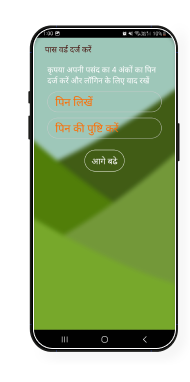
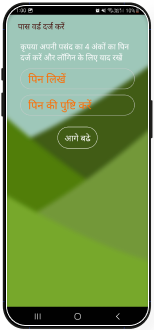
hero section updated

diff --git a/src/component/success-story/success.js b/src/component/success-story/success.js
@@ -1,11 +1,14 @@
 import React from 'react'
 import './success.css'
+import success from "../../assets/success.png"
 
 const Success = () => {
   return (
     <div className='success-main'>
-        <h1 className='success-heading'> Success <br /><span>Stories</span>   </h1>
-        <p className='success-descrip'>Lorem ipsum dolor sit amet, consectetur adipiscing elit, sed do eiusmod tempor incididunt ut labore et dolore magna aliqua. Ut enim ad minim veniam, quis nostrud exercitation ullamco laboris nisi ut aliquip ex ea commodo consequat. Duis aute irure dolor in reprehenderit in voluptate velit esse cillum dolore eu fugiat nulla pariatur. Excepteur sint occaecat cupidatat non proident, sunt in culpa qui officia deserunt mollit anim id est laborum.</p>
+      <div className='success-info'><h1 className='success-heading'> Success <br /><span>Stories</span>   </h1>
+      <p className='success-descrip'>Lorem ipsum dolor sit amet, consectetur adipiscing elit, sed do eiusmod tempor incididunt ut labore et dolore magna aliqua. Ut enim ad minim veniam, quis nostrud exercitation ullamco laboris nisi ut aliquip ex ea commodo consequat. Duis aute irure dolor in reprehenderit in voluptate velit esse cillum dolore eu fugiat nulla pariatur. Excepteur sint occaecat cupidatat non proident, sunt in culpa qui officia deserunt mollit anim id est laborum.</p></div>
+        
+      <img src={success} alt="" />
     </div>
   )
 }

diff --git a/src/component/hero/hero.css b/src/component/hero/hero.css
@@ -21,6 +21,11 @@
     flex-direction: column;
     align-items: center; 
     justify-content: center;
+    background-image: linear-gradient(
+    to bottom right,
+    var(--secondary),
+    var(--white)
+  );
 }
 .hero-btn {
     /* background-color: #7E9949; */
@@ -32,44 +37,33 @@
     font-size: 15px;
     border: none;
     border-radius: 10px;
-}
-.hero-img {
-    display: flex;
-    margin-top: 40px;
-    width: 100%;
-}
-.hero-img img{
-    object-fit: cover;
-    width: 350px;
-    height: 350px;
-}
-
-.hero-img {
+  }
+  .hero-img {
     display: flex;
     margin-top: 40px;
     align-items: center;
     justify-content: center;
     margin: 40px 20px 0 20px;
     gap: 10px;
-}
-.hero-img img {
+  }
+  .hero-img img {
     object-fit: cover;
     /* width: 350px; */
     /* height: 350px; */
-}
-.hero-img-1 {
+  }
+  .hero-img-1 {
     width: 180px;
     height: 350px;
-}
-.hero-img-2 {
+  }
+  .hero-img-2 {
     width: 200px;
     height: 440px;
-}
-.hero-img-3 {
+  }
+  .hero-img-3 {
     width: 240px;
     height: 500px;
-}
-.hero-img-4 {
+  }
+  .hero-img-4 {
     width: 280px;
     height: 600px;
-}
+  }

diff --git a/src/component/footer/footer.css b/src/component/footer/footer.css
@@ -3,27 +3,31 @@
     /* height: 155px; */
 background: linear-gradient(269.04deg, #7E9949 7.36%, #A9CB66 64.98%, #FFFFFF 115.38%);
 border-radius: 20px 20px 0px 0px;
-padding: 20px;
+padding-bottom: 20px;
+padding-top: 20px;
+
 
 }
-.footer-left{
-    padding-left: 23px;
-}
+
 .footer-left img{
     width: 156px;
     height: 156px;
     /* padding-left: 23px; */
 }
 .footer-border{
+    margin-top: 2px;
     width: 852px;
-    height: 2px;
-    background: linear-gradient(#FFFFFF00, #FFFFFF);
+    height: 1px;
+    background: linear-gradient(-90deg, rgba(255, 255, 255, 0) 0%, #FFFFFF 100%);
+   
+
+
 }
 .footer-center{
-    width: 100%;
     display: flex;
     align-items: center;
     justify-content: center;
+    align-items: flex-end;
     gap: 120px;
 }
 .footer-center select{
@@ -44,12 +48,14 @@ padding: 20px;
 .footer-info{
     display: flex;
     justify-content: space-between;
-    width: 100%;
+    width: 90%;
+    margin: auto;
+   
 }
 .footer-company{
     display: flex;
     flex-direction: column;
-    gap: 50px;
+     justify-content: space-between;
 }
 .footer-company h1{
     font-weight: 600;

diff --git a/src/component/know-more/know.js b/src/component/know-more/know.js
@@ -3,15 +3,16 @@ import "./know.css"
 
 const Know = () => {
   return (
-    <>
+    <div className='know-box'>
     <div className='know-main'>
         <h1>Subscribe to know more</h1>
-    </div>
-    <div className='know-main2'>
+        <div className='know-main2'>
         <input className='know-input' type="email" placeholder='Email Address'/>
         <button className='know-btn'>Know More</button>
     </div>
-    </>
+    </div>
+    
+    </div>
   )
 }
 

diff --git a/src/component/success-story/success.css b/src/component/success-story/success.css
@@ -4,6 +4,9 @@
     width: 645px;
     background-color: #A9CB664D;
     margin-top: 50px;
+    display: flex;
+    width: 100%;
+    justify-content: space-between;
 }
 .success-heading{
     color: #7E9949;
@@ -25,6 +28,13 @@
     width: 421px;
     height: 140px;
     margin-left: 100px;
+}
+.success-info{
+    /* padding: 50px; */
+    width: 50%;
+    display: flex;
+    flex-direction: column;
+    justify-content: center;
 }
 
 

diff --git a/src/component/know-more/know.css b/src/component/know-more/know.css
@@ -3,6 +3,8 @@
     flex-direction: column;
     align-items: center; 
     justify-content: center;
+    padding-top: 50px;
+    padding-bottom: 50px;
 }
 .know-main h1{
     height: 60px;

diff --git a/src/App.js b/src/App.js
@@ -17,7 +17,7 @@ function App() {
       <Story />
       <Features />
       <Success />
-      {/* <Know /> */}
+      <Know />
       <Footer />
     </div>
   );

diff --git a/src/component/footer/footer.js b/src/component/footer/footer.js
@@ -35,7 +35,6 @@ const Footer = () => {
         </div>
         </div>
         
-        
         <div className="footer-border">
         
         </div>

diff --git a/src/component/navbar/navbar.css b/src/component/navbar/navbar.css
@@ -19,7 +19,8 @@
 }
 
 .nav-img{
-    width: 110px;
-    height: 110px;
+    width: 130px;
+    height: 130px;
+    margin-right: 40px;
 }
 
